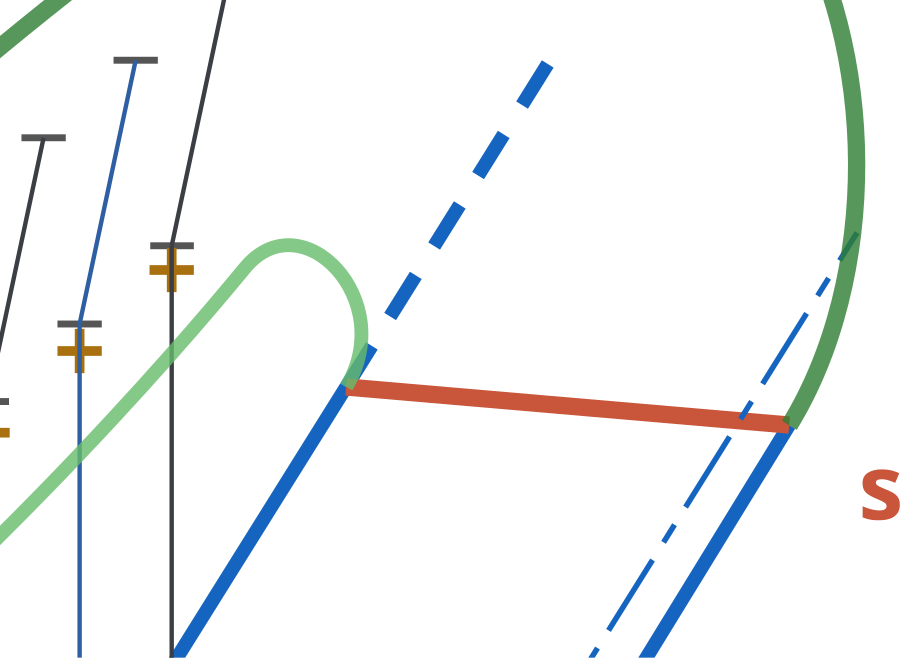
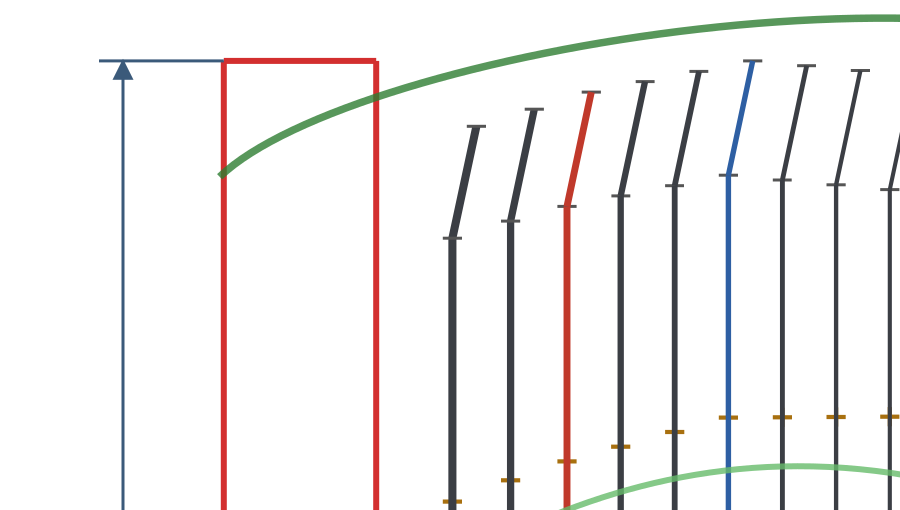
Erand49 crown: top green node lowered 4 mm per JC markup
Node and its handle moved together; rest of the rail untouched.
Regenerated figure 1 + root embed; verified on a crown-region render.

Claude-Session: https://claude.ai/code/session_012jVWLqFRNWgavrkoqrZokD

diff --git a/Erand49/LAYOUT.html b/Erand49/LAYOUT.html
@@ -16,7 +16,7 @@ surface — connection, docking, and travel live in the PM's <code>../LAYOUT.htm
 the instrument itself: string band, sensors, and frame.</p>
 
 <h2>Figure 1 — harp side-view profile (ISO 128/129): strings on the frame</h2>
-<p style="font-size:11px;color:#999;margin:2px 0 6px">generated 2026-09-01 15:08:09 — if this stamp is old, the browser is showing a cached/old copy</p>
+<p style="font-size:11px;color:#999;margin:2px 0 6px">generated 2026-09-01 15:10:24 — if this stamp is old, the browser is showing a cached/old copy</p>
 <p class="sub">From <code>erard original stringband tutorial.dxf</code>: variable spacing
 (13.325→17.94 mm, ratio 1.025), sloped anchors, in mm — <b>each stroke width is the string's actual
 overall diameter</b>. Colors per harp convention: <span class="leg" style="color:#c0392b">C red</span> ·
@@ -311,7 +311,7 @@ optical X/Y sensor axes, 1.0 in below each nut on the neck rail. Green Beziers (
 <line x1="215.8" y1="79.4" x2="223.8" y2="42.1" stroke="#3b3e44" stroke-width="2.692"/>
 <g stroke="#555" stroke-width="1.0"><line x1="212.6" y1="79.4" x2="219.0" y2="79.4"/><line x1="220.6" y1="42.1" x2="227.0" y2="42.1"/></g>
 <text x="215.8" y="1668.8" class="nl" fill="#8d877a" text-anchor="middle">a0*</text>
-<path d="M 138.21996,54.93472 C 182.63611,12.264078 408.32862,-20.833264 472.26137,32.301189 536.19411,85.435641 615.43736,477.80999 746.63448,457.58294 877.8316,437.35589 899.00459,380.96014 976.11185,329.78393 c 77.10725,-51.17620 104.10100,39.06953 77.89897,81.65420" fill="none" stroke="#2e7d32" stroke-width="2.5" opacity="0.8"><title>tuner rail — hand-edited (Erand49.svg) — the neck top curve</title></path>
+<path d="M 138.21996,58.93472 C 182.63611,16.264078 408.32862,-20.833264 472.26137,32.301189 536.19411,85.435641 615.43736,477.80999 746.63448,457.58294 877.8316,437.35589 899.00459,380.96014 976.11185,329.78393 c 77.10725,-51.17620 104.10100,39.06953 77.89897,81.65420" fill="none" stroke="#2e7d32" stroke-width="2.5" opacity="0.8"><title>tuner rail — hand-edited (Erand49.svg) — the neck top curve</title></path>
 <path d="m 140.74593,240.41583 c 46.26637,-33.24776 127.6104,-109.93822 249.2482,-76.92464 121.6378,33.01357 183.85728,382.8277 336.29284,377.19423 129.22755,-4.77578 240.91267,-142.16262 249.1265,-152.02151 8.21383,-9.85888 22.20727,4.72265 14.61221,17.20894" fill="none" stroke="#66bb6a" stroke-width="2.0" opacity="0.8"><title>sensor rail — hand-edited (Erand49.svg) — the neck bottom curve, optical axes</title></path>
 </svg></div>
 
